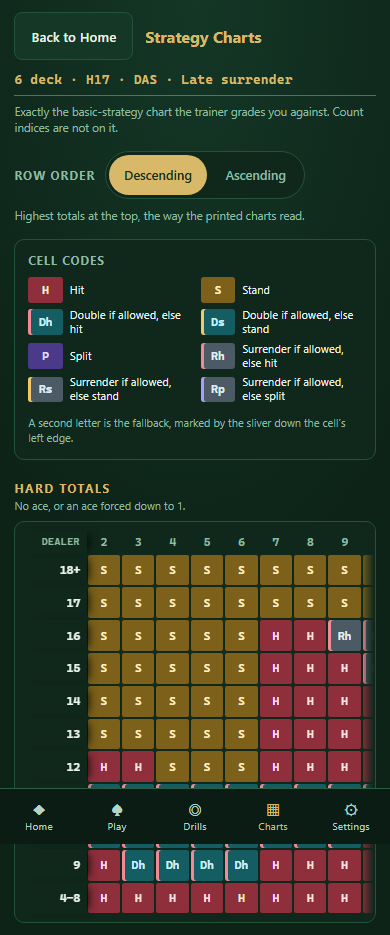
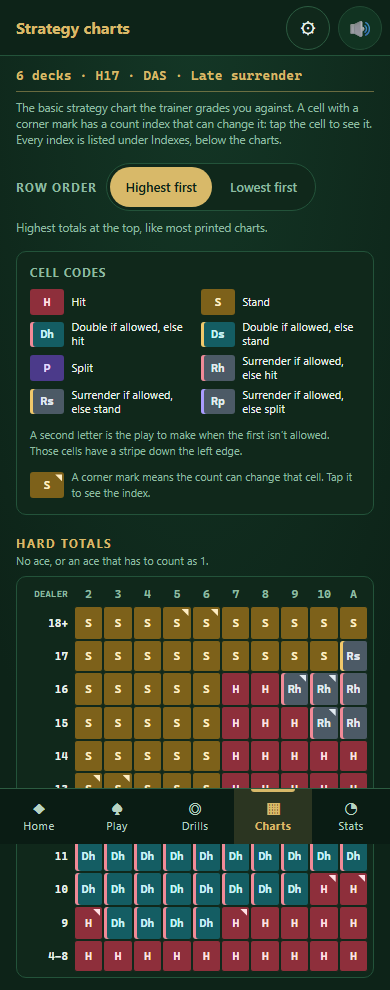
Nov6: never the same rank twice in a row in one-card counting flashes
Claude-Session: https://claude.ai/code/session_01AocqW9vrWggg5QhQPr55ty

diff --git a/src/drills/countDrill.ts b/src/drills/countDrill.ts
@@ -66,6 +66,10 @@ export function makeCountDrill(
     );
   }
 
+  // Owner 2026-11-06: one card at a time, the same rank twice in a row looks
+  // like the flash froze. Reordered only, so the count is unchanged.
+  if (groupSize === 1) separateRepeats(allCards, mulberry32((seed ?? Date.now()) ^ 0x5eed1e55));
+
   // Group the cards
   const groups: Card[][] = [];
   for (let i = 0; i < allCards.length; i += groupSize) {
@@ -177,7 +181,35 @@ export function makeCountdown(seed?: number): CountdownRound {
   }
 
   const hidden = allCards.pop()!;
+  separateRepeats(allCards, mulberry32((seed ?? Date.now()) ^ 0x5eed1e55));
   const shown = allCards;
 
   return { shown, hidden };
+}
+
+/**
+ * Owner 2026-11-06: reorders `cards` in place so no two neighbours share a
+ * rank, by swapping each repeat with a card further on (or, failing that,
+ * earlier) that fits both places. The multiset -- and so the count -- is
+ * unchanged. A run that cannot be separated (all one rank) is left as is.
+ */
+export function separateRepeats(cards: Card[], rng: () => number): void {
+  const n = cards.length;
+  const rankAt = (k: number) => cards[k]?.rank;
+  const fits = (rank: string | undefined, k: number, skip: number) =>
+    (k - 1 === skip || rankAt(k - 1) !== rank) && (k + 1 === skip || rankAt(k + 1) !== rank);
+  for (let i = 1; i < n; i++) {
+    if (rankAt(i) !== rankAt(i - 1)) continue;
+    const candidates: number[] = [];
+    for (let j = 0; j < n; j++) {
+      if (j === i || rankAt(j) === rankAt(i)) continue;
+      // cards[j] must fit at i, and cards[i] must fit at j.
+      if (fits(rankAt(j), i, j) && fits(rankAt(i), j, i)) candidates.push(j);
+    }
+    if (candidates.length === 0) continue;
+    const later = candidates.filter((j) => j > i);
+    const pool = later.length > 0 ? later : candidates;
+    const j = pool[Math.floor(rng() * pool.length)]!;
+    [cards[i], cards[j]] = [cards[j]!, cards[i]!];
+  }
 }

diff --git a/src/drills/countDrill.test.ts b/src/drills/countDrill.test.ts
@@ -1,7 +1,7 @@
 import { describe, it, expect } from 'vitest';
 import type { Card, Rank } from '../engine/cards';
 import { hiLoTag } from '../engine/count';
-import { runningCountThrough, makeCountDrill } from './countDrill';
+import { runningCountThrough, makeCountDrill, separateRepeats } from './countDrill';
 
 /** Builds a minimal Card for a given rank -- suit is irrelevant to hiLoTag. */
 function card(rank: Rank): Card {
@@ -206,5 +206,25 @@ describe('makeCountDrill shoe size (#44: a whole-deck run must not always end at
       (r) => Math.max(...rankCounts(r).values()) > 1,
     );
     expect(repeats).toBe(true);
+  });
+});
+
+describe('no rank twice in a row (owner 2026-11-06)', () => {
+  it('a one-card-at-a-time run never shows the same rank back to back', () => {
+    for (let seed = 1; seed <= 300; seed++) {
+      for (const bias of ['none', 'negative', 'positive'] as const) {
+        const { groups } = makeCountDrill(104, 1, seed, bias);
+        const ranks = groups.map((g) => g[0]!.rank);
+        for (let i = 1; i < ranks.length; i++) expect(ranks[i], `seed ${seed} ${bias} at ${i}`).not.toBe(ranks[i - 1]);
+      }
+    }
+  });
+
+  it('separateRepeats only reorders: same cards, same count', () => {
+    const cards = ['5', '5', '5', 'K', 'K', '2', '9', '9'].map((rank, i) => ({ rank, suit: 'shdc'[i % 4] })) as Card[];
+    const before = cards.map((c) => c.rank + c.suit).sort();
+    separateRepeats(cards, () => 0.3);
+    expect(cards.map((c) => c.rank + c.suit).sort()).toEqual(before);
+    for (let i = 1; i < cards.length; i++) expect(cards[i]!.rank).not.toBe(cards[i - 1]!.rank);
   });
 });

diff --git a/src/drills/sideCountDrill.ts b/src/drills/sideCountDrill.ts
@@ -1,5 +1,6 @@
 import type { Card } from '../engine/cards';
 import { mulberry32, Shoe, snapDecksRemaining } from '../engine/cards';
+import { separateRepeats } from './countDrill';
 import { hiLoTag, trueCount } from '../engine/count';
 import { RANK_INDEX, SUIT_INDEX } from '../engine/sideBets/comp';
 import type { SideCountDef } from '../engine/sideBets/counts';
@@ -134,6 +135,8 @@ function attempt(spec: SideRunSpec, shoeSeed: number, endAt: number, n: number):
 
   const all: Card[] = [];
   for (let i = 0; i < n; i++) all.push(shoe.draw());
+  // Owner 2026-11-06: never the same rank twice in a row, one card at a time.
+  if (spec.groupSize === 1) separateRepeats(all, mulberry32(shoeSeed ^ 0x5eed1e55));
   const groups: Card[][] = [];
   for (let i = 0; i < all.length; i += spec.groupSize) groups.push(all.slice(i, i + spec.groupSize));
 
